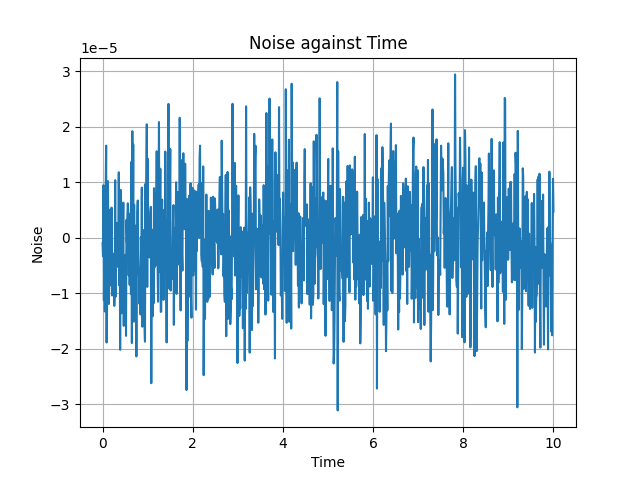
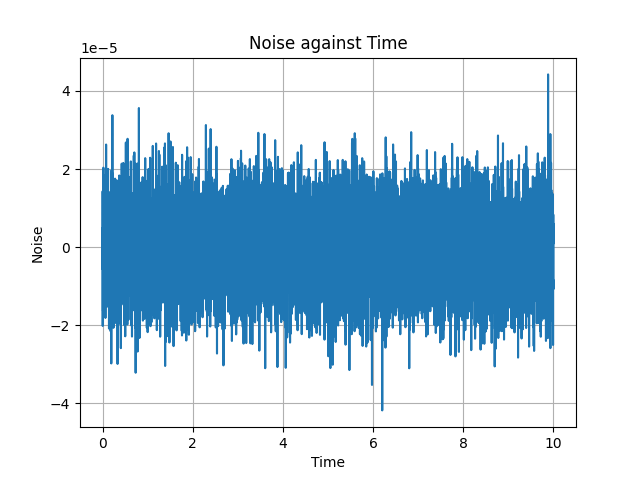
Commit

diff --git a/.vscode/CNN.py b/.vscode/CNN.py
@@ -1,0 +1,69 @@
+# Import necessary libraries
+import tensorflow as tf
+from tensorflow.keras import datasets, layers, models
+import matplotlib.pyplot as plt
+
+# Load and preprocess the CIFAR-10 dataset
+(train_images, train_labels), (test_images, test_labels) = datasets.cifar10.load_data()
+
+# Normalize pixel values to be between 0 and 1
+train_images, test_images = train_images / 255.0, test_images / 255.0
+
+# Class names for the CIFAR-10 dataset
+class_names = ['airplane', 'automobile', 'bird', 'cat', 'deer', 'dog', 'frog', 'horse', 'ship', 'truck']
+
+# Visualize the first few images
+plt.figure(figsize = (10, 10))
+for i in range(25):
+    plt.subplot(5, 5, i + 1)
+    plt.xticks([])
+    plt.yticks([])
+    plt.grid(False)
+    plt.imshow(train_images[i])
+    plt.xlabel(class_names[train_labels[i][0]])
+plt.show()
+
+# Build the CNN model
+model = models.Sequential()
+model.add(layers.Conv2D(32, (3, 3), activation = 'relu', input_shape = (32, 32, 3)))
+model.add(layers.MaxPooling2D((2, 2)))
+model.add(layers.Conv2D(64, (3, 3), activation = 'relu'))
+model.add(layers.MaxPooling2D((2, 2)))
+model.add(layers.Conv2D(64, (3, 3), activation = 'relu'))
+
+# Add dense layers on top
+model.add(layers.Flatten())
+model.add(layers.Dense(64, activation = 'relu'))
+model.add(layers.Dense(10))
+
+# Print the model summary
+model.summary()
+
+# Compile the model
+model.compile(optimizer = 'adam', loss = tf.keras.losses.SparseCategoricalCrossentropy(from_logits = True), metrics = ['accuracy'])
+
+# Train the model
+history = model.fit(train_images, train_labels, epochs = 10, validation_data = (test_images, test_labels))
+
+# Evaluate the model
+test_loss, test_acc = model.evaluate(test_images, test_labels, verbose = 2)
+print(f"\nTest accuracy: {test_acc}")
+
+# Plot training and validation accuracy over epochs
+plt.figure(figsize = (10, 5))
+plt.subplot(1, 2, 1)
+plt.plot(history.history['accuracy'], label = 'accuracy')
+plt.plot(history.history['val_accuracy'], label = 'val_accuracy')
+plt.xlabel('Epoch')
+plt.ylabel('Accuracy')
+plt.ylim([0, 1])
+plt.legend(loc = 'lower right')
+
+# Plot training and validation loss over epochs
+plt.subplot(1, 2, 2)
+plt.plot(history.history['loss'], label = 'loss')
+plt.plot(history.history['val_loss'], label = 'val_loss')
+plt.xlabel('Epoch')
+plt.ylabel('Loss')
+plt.legend(loc = 'upper right')
+plt.show()

diff --git a/Cholesky Decomposition.py b/Cholesky Decomposition.py
@@ -1,26 +1,28 @@
 import numpy as np
 import matplotlib.pyplot as plt 
 
+global m, b, t0, tf, h
 m = 0.1 * 10 ** (-6)
 b = 0.2 * 10 ** (-6)
 t0 = 0.0 
 tf = 10.0
-h = 0.01
-desired_std = np.sqrt(np.sqrt(2 * m * b ** 2))
+h = 0.001
 
-time_matrix = h * np.abs(np.arange((tf - t0) / h)[:, None] - np.arange((tf - t0) / h)[None, :])
+def noise():
+    time_matrix = h * np.abs(np.arange((tf - t0) / h)[:, None] - np.arange((tf - t0) / h)[None, :])
+    covariance_matrix = np.zeros_like(time_matrix)
 
-covariance_matrix = np.zeros_like(time_matrix)
+    for i in range(len(time_matrix)):
+        for j in range(len(time_matrix)):
+            covariance_matrix[i][j] = (2 * m) ** 0.5 * b * np.exp(- m * time_matrix[i][j] * 0.5)
+            if (i == j):
+                covariance_matrix[i][j] = 1
 
-for i in range(len(time_matrix)):
-    for j in range(len(time_matrix)):
-        covariance_matrix[i][j] = (2 * m) ** 0.5 * b * np.exp(- m * time_matrix[i][j] * 0.5)
-        if (i == j):
-            covariance_matrix[i][j] = 1
+    L = np.linalg.cholesky(covariance_matrix)
+    noise = np.dot(L, np.random.normal(loc = 0, scale = np.sqrt(np.sqrt(2 * m * b ** 2)), size = int((tf - t0) / h)))
+    return noise
 
-L = np.linalg.cholesky(covariance_matrix)
-
-noise = np.dot(L, np.random.normal(loc = 0, scale = np.sqrt(np.sqrt(2 * m * b ** 2)), size = int((tf - t0) / h)))
+noise = noise()
 t_values = np.linspace(t0, tf, int((tf - t0) / h))
 
 plt.plot(t_values, noise)
@@ -32,6 +34,5 @@ plt.savefig('noise.png')
 
 mean = np.mean(noise)
 variance = np.var(noise)
-print("Noise:", noise)
 print("Mean:", mean)
 print("Variance:", variance)
